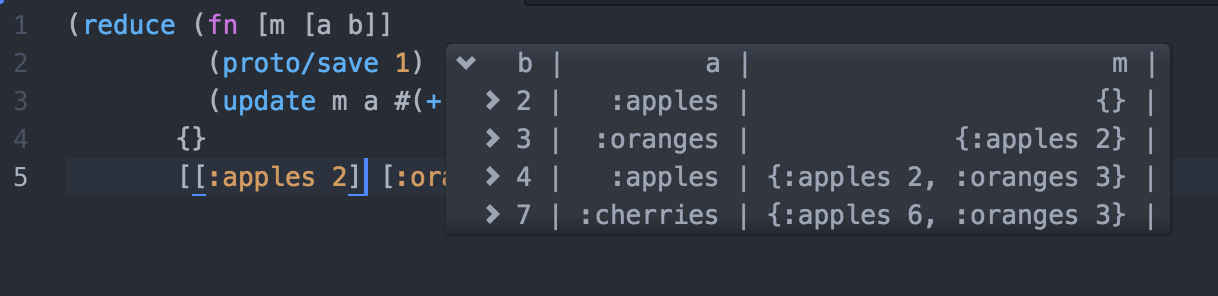
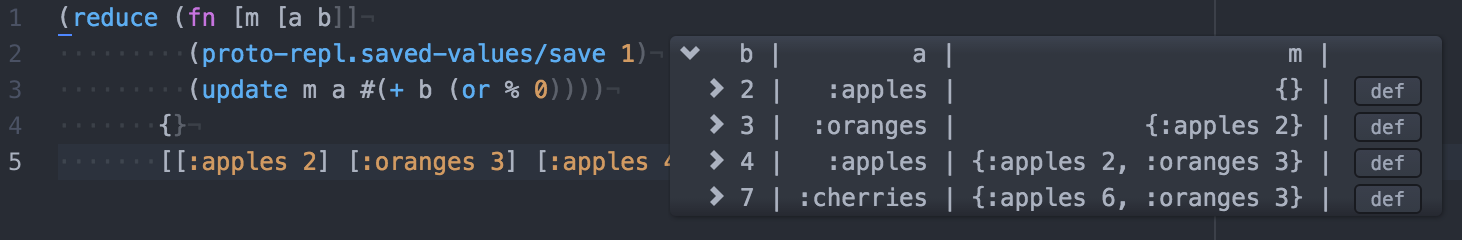
Finishing updates to the saved values feature.

diff --git a/lib/proto_repl/proto_repl/edn_reader/display.js b/lib/proto_repl/proto_repl/edn_reader/display.js
@@ -466,7 +466,7 @@ return proto_repl.edn_reader.display.define_vars_with_id.call(null,id,null);
 });
 
 proto_repl.edn_reader.display.define_vars_with_id.cljs$core$IFn$_invoke$arity$2 = (function (id,var_name){
-var code = (cljs.core.truth_(var_name)?cljs.core.sequence.call(null,cljs.core.seq.call(null,cljs.core.concat.call(null,cljs.core._conj.call(null,cljs.core.List.EMPTY,new cljs.core.Symbol("proto","def-by-id","proto/def-by-id",1690726392,null)),cljs.core._conj.call(null,cljs.core.List.EMPTY,id),cljs.core._conj.call(null,cljs.core.List.EMPTY,cljs.core.sequence.call(null,cljs.core.seq.call(null,cljs.core.concat.call(null,cljs.core._conj.call(null,cljs.core.List.EMPTY,new cljs.core.Symbol(null,"quote","quote",1377916282,null)),cljs.core._conj.call(null,cljs.core.List.EMPTY,var_name)))))))):cljs.core.sequence.call(null,cljs.core.seq.call(null,cljs.core.concat.call(null,cljs.core._conj.call(null,cljs.core.List.EMPTY,new cljs.core.Symbol("proto","def-by-id","proto/def-by-id",1690726392,null)),cljs.core._conj.call(null,cljs.core.List.EMPTY,id)))));
+var code = (cljs.core.truth_(var_name)?cljs.core.sequence.call(null,cljs.core.seq.call(null,cljs.core.concat.call(null,cljs.core._conj.call(null,cljs.core.List.EMPTY,new cljs.core.Symbol("proto-repl.saved-values","def-by-id","proto-repl.saved-values/def-by-id",423272998,null)),cljs.core._conj.call(null,cljs.core.List.EMPTY,id),cljs.core._conj.call(null,cljs.core.List.EMPTY,cljs.core.sequence.call(null,cljs.core.seq.call(null,cljs.core.concat.call(null,cljs.core._conj.call(null,cljs.core.List.EMPTY,new cljs.core.Symbol(null,"quote","quote",1377916282,null)),cljs.core._conj.call(null,cljs.core.List.EMPTY,var_name)))))))):cljs.core.sequence.call(null,cljs.core.seq.call(null,cljs.core.concat.call(null,cljs.core._conj.call(null,cljs.core.List.EMPTY,new cljs.core.Symbol("proto-repl.saved-values","def-by-id","proto-repl.saved-values/def-by-id",423272998,null)),cljs.core._conj.call(null,cljs.core.List.EMPTY,id)))));
 var code_str = cljs.core.pr_str.call(null,code);
 var options = new cljs.core.PersistentArrayMap(null, 2, [new cljs.core.Keyword(null,"displayInRepl","displayInRepl",157291271),false,new cljs.core.Keyword(null,"resultHandler","resultHandler",-641220735),((function (code,code_str){
 return (function (result){

diff --git a/README.md b/README.md
@@ -159,8 +159,6 @@ The visualization shown was created with [Proto REPL Charts](https://atom.io/pac
 
 ### Saving and Viewing Local Binding Values
 
-(Saving and Viewing Local Binding Values is in beta and subject to change. [Please report any issues or suggestions for improvement](https://github.com/jasongilman/proto-repl/issues).)
-
 When you are inside a function or a let block in Clojure there are symbols that have a value. In this example code which sums up `m`, `a`, and `b` are all local bindings.
 
 ```Clojure
@@ -174,11 +172,11 @@ When you are inside a function or a let block in Clojure there are symbols that 
 
 While this code is simple it can be difficult to understand what's happening inside functions and loops. A lot of developers reach for logging or printing to debug this kind of code. When you do that across multiple functions and namespaces those values are mixed together and separate from the code. Proto REPL's new feature for saving and viewing local bindings let's you see the values in context and from multiple requests.
 
-The following code was the same as before but now it has `(proto/save 1)`. The `proto/save` function saves all the local bindings so that they can be viewed in Proto REPL. The `1` in `(proto/save 1)` is just a unique id to tie the saved values back to Proto REPL for display.
+The following code was the same as before but now it has `(proto-repl.saved-values/save 1)`. The `proto-repl.saved-values/save` function saves all the local bindings so that they can be viewed in Proto REPL. The `1` in `(proto-repl.saved-values/save 1)` is just a unique id to tie the saved values back to Proto REPL for display.
 
 ```Clojure
 (reduce (fn [m [a b]]
-         (proto/save 2)
+         (proto-repl.saved-values/save 1)
          (update m a #(+ b (or % 0))))
        {}
        [[:apples 2] [:oranges 3] [:apples 4] [:cherries 7]])
@@ -194,11 +192,15 @@ Tables are limited in the amount of detail that can be shown. Proto REPL will tr
 
 ![saved values table expanded](https://github.com/jasongilman/proto-repl/raw/master/images/saved_values_table_expanded.png)
 
-You can also specify specific bindings to save. For example `(proto/save 1 m a)` will save just the values of local variables `m` and `b`.
+You can also specify specific bindings to save. For example `(proto-repl.saved-values/save 1 m a)` will save just the values of local variables `m` and `b`.
+
+#### The Def button - Defining vars for saved local bindings
+
+The "def" button shown in the saved values table allows you to temporarily define vars in the namespace with names the same as the local bindings. This makes it easy to try out the code with the values that were saved. You can easily reevaluate bits of the code in place and all of the local bindings will be available for use.
 
 #### Using the save value feature
 
-1. Insert a call to `proto/save` in the code using the keybinding `ctrl-alt-shift-, i` (Press ctrl shift comma together, release then i) This just inserts the save call with a unique number. The unique number allows you to have multiple save calls in different locations within your code.
+1. Insert a call to `proto-repl.saved-values/save` in the code using the keybinding `ctrl-alt-shift-, i` (Press ctrl shift comma together, release then i) This just inserts the save call with a unique number. The unique number allows you to have multiple save calls in different locations within your code.
 2. Execute your code. If you've placed the code in a function or across multiple namespaces you'll need to redefine the modified code or refresh before executing the code.
 3. Show the values by pressing the keybinding `ctrl-alt-shift-, d`
 4. Saved values can be cleared with the keybinding `ctrl-alt-shift-, c`

diff --git a/CHANGELOG.md b/CHANGELOG.md
@@ -356,3 +356,7 @@ Accidentally published as major instead of minor but oh well! Now is as good a t
 # 1.2.1
 
 * #111 - Made small changes to error message in refresh.
+
+# 1.3.0
+
+* Added def buttons to the inline saved values.
